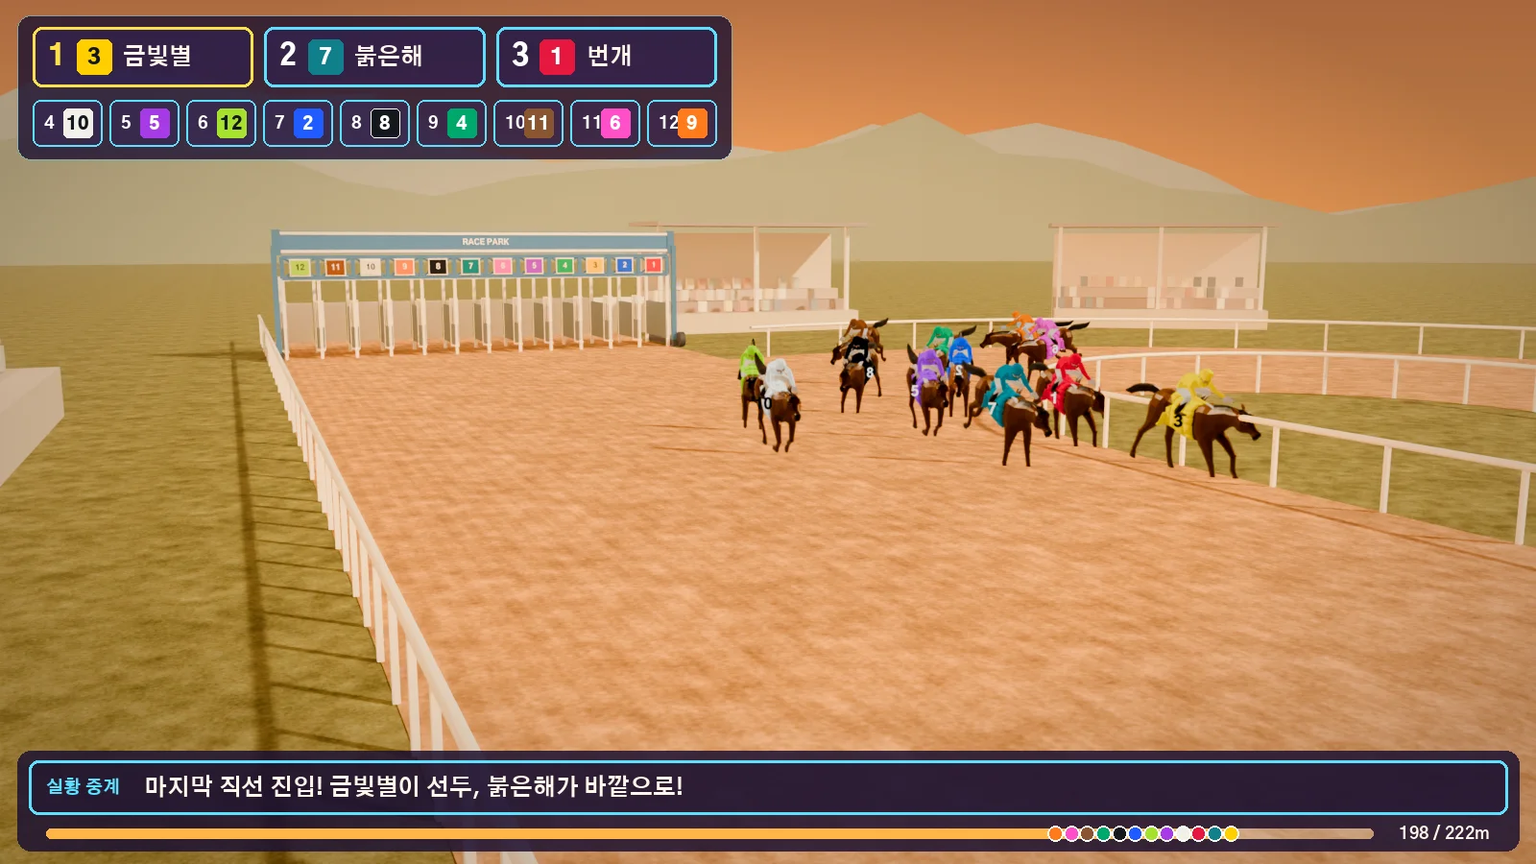
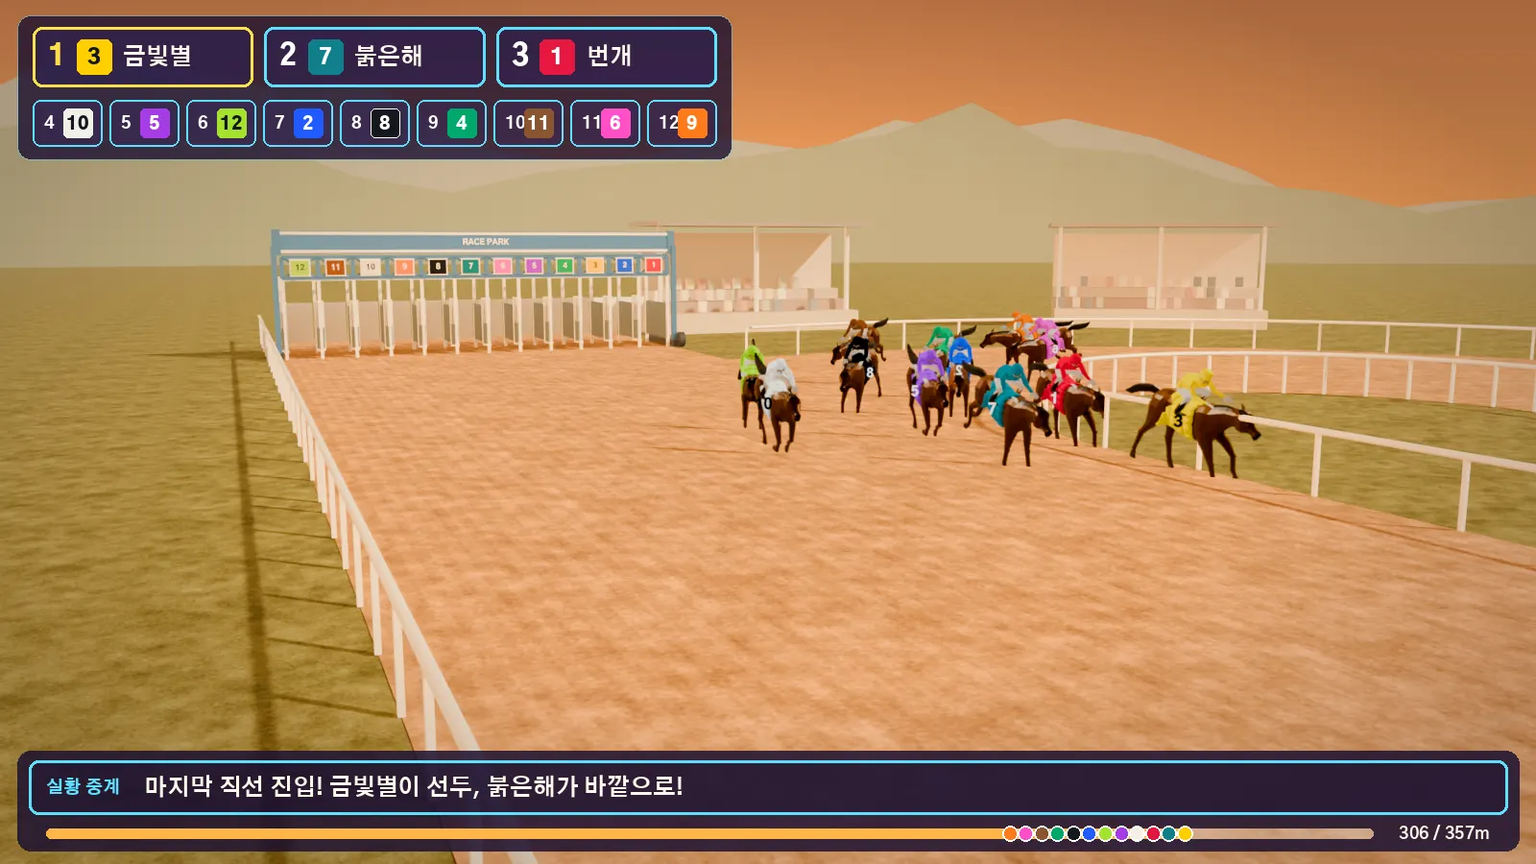
docs(stage2): 결승 시안 v3 확정 반영 (SPEC 9-B·§3-2, storyboard_finish 교체)

diff --git a/docs/stage2/SPEC.md b/docs/stage2/SPEC.md
@@ -2,7 +2,7 @@
 
 > **이 문서(`docs/stage2/SPEC.md`)가 2단계의 유일한 기준 문서(single source of truth)다.** 시게루의 07 마스터 스펙 등 다른 문서의 결정은 여기에 반영된 것만 유효하다.
 > 이 문서가 2단계의 최우선 기준이다. `docs/stage2/ref/`의 다른 문서와 충돌하면 이 문서를 따른다.
-> 정답 이미지: `docs/stage2/storyboard/01~10_*.webp` (명준 승인). 단 마지막 코너 이후~경기 종료 화면은 `docs/stage2/storyboard_finish/`(결승 시안 v2, 2026-11-04 최종 확정)가 대체한다(§3-2).
+> 정답 이미지: `docs/stage2/storyboard/01~10_*.webp` (명준 승인). 단 마지막 코너 이후~경기 종료 화면은 `docs/stage2/storyboard_finish/`(결승 시안 v3, 2026-11-04 명준 님 확정)가 대체한다(§3-2).
 
 ## 1. 목표
 - 기본 말 한 종류 + 기본 기수 한 종류. 레인 색 틴트(안장천·번호판·실크)로 12마리 구분.
@@ -26,39 +26,41 @@
 7. **카메라 장면별 값** — `STORYBOARD_v1_camera.md` 표의 거리·렌즈·고도대로. 달리는 장면(06)은 거리 16~17m, focal(900h) 약 1275(옛 1170h 환산 1658), 말 길이 화면 폭 20~26%. 코너·백 스트레치(07·08)는 말 12~14%로 무리 전체. 출발(04·05)은 위에서 내려다보며 12칸 전체. 마지막 코너 이후(옛 장면 09·10)는 이 작업에서 하지 않는다 — 결승 카메라는 §3-2(`storyboard_finish/`)대로 9-B에서 한다. 그때까지 결승 직선은 06과 같은 추적 카메라로 둔다.
 8. **경기장 주변·톤** — 메인 관중석, 작은 관중석·지붕 건물, 황금빛 들판, 노을 하늘(장면 01 기준). 지금의 녹색 띠는 제거.
 9. **순위판·결승·결과 연출 — 두 PR로 나눈다.**
-   - **9-A 화면 정보 배치 (작업 1 바로 다음에 한다, 완료)** — 위쪽 순위판(1~3위 큰 카드, 4~12위 작은 칩, 테두리 #5CE1FF, 1위 #FFE14A), 아래 실황 중계 자막과 진행 바, 결과 순위표(1~12위 레인색·이름·1위와 차이, 1위 행 강조)의 배치를 장면 09·10과 똑같이. 이 배치는 결승 시안 v2의 f01~f05와도 같다(변경 없음). 연출은 하지 않는다.
-   - **9-B 결승 연출 (맨 마지막)** — §3-2 전체: f01 고정 카메라 → 컷 1번 → 바깥 난간 추적(1.35m·45mm, 슬로우) → 결승선에서 정지, 사진 판정 프레임 약 1초 → 컷 없이 1위 뒤로 올라가며 돌기(45→36mm) → f05 결과 화면(순위표 오른쪽 1/3). 말 머리 위 순위 숫자는 쓰지 않는다(제외). 9-A의 배치는 건드리지 않는다.
+   - **9-A 화면 정보 배치 (작업 1 바로 다음에 한다, 완료)** — 위쪽 순위판(1~3위 큰 카드, 4~12위 작은 칩, 테두리 #5CE1FF, 1위 #FFE14A), 아래 실황 중계 자막과 진행 바, 결과 순위표(1~12위 레인색·이름·1위와 차이, 1위 행 강조)의 배치를 장면 09·10과 똑같이. 이 배치는 결승 시안 v3의 f01~f05와도 같다(변경 없음). 단 결과 순위표 제목과 진행 바 거리는 '357m'·'/357m'로 표기한다. 연출은 하지 않는다.
+   - **9-B 결승 연출 (맨 마지막)** — §3-2 전체(결승 시안 v3): f01 고정 카메라 → 컷 1번(직선→스퍼트, 결승선 30m 앞) → 바깥 난간 추적(1.35m·45mm) → 결승선 10m 앞부터 서서히 0.5배 슬로우 → 1위 코가 결승선에 닿으면 정지 약 1초(f04, PHOTO FINISH 표시·판정선은 연출만) → 컷 없이 상승해 1위 3/4 뒤쪽(45→40→36mm) → f05 결과 화면(순위표 오른쪽 1/3). 사진 판정·동착 판정 기능은 넣지 않는다. 말 머리 위 순위 숫자는 쓰지 않는다(제외). 1착 배너·다시 하기/나가기 버튼은 미정. 9-A의 배치는 건드리지 않는다.
    - 실제 순서: 1 → 9-A → 2 → 3+4 → 5 → 6 → 7 → 8 → 9-B.
 
-### 9번 세부 (2026-11-04 확정: 리무르 결승 시안 v2)
-마지막 코너를 빠져나온 뒤부터 결과 화면까지는 §3-2(= `storyboard_finish/SHOTS.md`)가 유일한 기준이다. 11/3에 정했던 '결승 30m 전 측면 고정', '5m 전 0.5배 1초', '통과 후 3초 감속하며 1위 쪽 푸시', '꼴찌 통과 1초 뒤 순위표 슬라이드, 2초 뒤 버튼' 순서는 폐기하고 §3-2로 대체한다.
+### 9번 세부 (2026-11-04 확정: 리무르 결승 시안 v3)
+마지막 코너를 빠져나온 뒤부터 결과 화면까지는 §3-2(= `storyboard_finish/SHOTS.md`, v3)가 유일한 기준이다. 11/3 순서('결승 30m 전 측면 고정', '5m 전 0.5배 1초', '통과 후 3초 감속하며 1위 쪽 푸시', '꼴찌 통과 1초 뒤 순위표 슬라이드, 2초 뒤 버튼')와 결승 시안 v2(222m 기준 시간표)는 폐기하고 §3-2로 대체한다.
 
-### 3-2. 마지막 코너 이후 → 결승 → 경기 종료 화면 (리무르 결승 시안 v2, 2026-11-04 명준 최종 확정)
-- 기준: `docs/stage2/storyboard_finish/` — `SHOTS.md`(카메라 경로·시간·렌즈), 키프레임 `f01_stretch_entry`, `f02_sprint`, `f02b_sprint_mid`, `f04_photo_finish`, `f04to05_rise_swing`, `f05_result`(.webp), 모아보기 `contact.webp`. 이 구간에서 `storyboard/09_home_sprint.webp`, `10_finish_results.webp`의 카메라·구도는 쓰지 않는다(HUD 배치는 같음, 아래).
-- 원칙: 카메라가 짧은 시간에 자주 바뀌면 어지럽다(명준). **컷은 f01→f02 한 번뿐.** 경기 종료 후 다른 페이지로 넘어가지 않고, 말이 보이는 경기장 화면 위에서 결과를 보여 준다.
+### 3-2. 마지막 코너 이후 → 결승 → 경기 종료 화면 (리무르 결승 시안 v3, 2026-11-04 명준 님 확정)
+- 기준: `docs/stage2/storyboard_finish/` — `SHOTS.md`(v3: 카메라 경로·시간·렌즈), 키프레임 `f01_stretch_entry`, `f02_sprint`, `f02b_sprint_mid`, `f04_photo_finish`, `f04to05_rise_swing`, `f05_result`(.webp), 모아보기 `contact.webp`. 이 구간에서 `storyboard/09_home_sprint.webp`, `10_finish_results.webp`의 카메라·구도는 쓰지 않는다(HUD 배치는 같음, 아래).
+- 원칙: 카메라가 짧은 시간에 자주 바뀌면 어지럽다(명준). **컷은 f01→f02(직선→스퍼트) 한 번뿐.** 경기 종료 후 다른 페이지로 넘어가지 않고, 말이 보이는 경기장 화면 위에서 결과를 보여 준다.
+- 코스(§8): 직선 80.28m, L=357m. 마지막 코너 출구(303.5m, 스퍼트 +12% 시작)~결승선(357m) = 53.5m. 스퍼트 속도 약 6.70m/s.
 
-| 순서 | 키 | 시안 t(초) | 선두~결승선 | 카메라 | 렌즈 |
-|---|---|---|---|---|---|
-| 1 | f01 직선 진입 | 0.0 | 23.8m | 바깥·앞쪽 고정 카메라(높이 4.2m, 고도 8.8°), 무리가 결승 직선으로 들어오는 것을 정면 쪽에서 | 34mm |
-| 2 | **컷** f01→f02 | ~1.2 | 13.4m | (유일한 컷) | |
-| 3 | f02 → f02b → f04 | ~1.2 → ~1.9 → ~2.6 | 13.4 → 5.9 → 1.1m | 하나의 추적 리그: 바깥 난간 라인(트랙 가로 위치 고정), 높이 1.35m, 트랙을 정면으로 가로질러 보며(고도 1.2°) 달리는 방향으로만 선두 속도에 맞춰 이동. 결승선에 가까워지면 천천히 감속(ease-out)해 결승선 위치에서 멈춘다 | 45mm |
-| 4 | f04 사진 판정 프레임 | ~2.6, **약 1.0초 정지** | 선두 코가 결승선에 닿는 순간 | 결승선에 멈춘 카메라, 화면 정지(freeze). 결승선 세로선과 우상단 `PHOTO FINISH · 1/1000s` 표시 | 45mm |
-| 5 | f04 → f04to05 → f05 | ~2.6 → ~4.1 → ~5.0 | 통과 후 | **컷 없음.** 1위 말 기준 상대 이동: f04 자세(옆, 1.35m)에서 f05 자세(1위 뒤 3.2m, 안쪽 0.6m, 위 3.3m)로 smoothstep, 위로 1.2·sin(πt)m 더 올라 무리 위로 호를 그리며 1위 뒤로 돈다 | 45→40→36mm |
-| 6 | f05 결과 | ~5.0~ | | 1위 말 뒷모습(화면 폭 약 21%) + 오른쪽 1/3에 결과 순위표 | 36mm |
+| 순서 | 키 | 게임 t(초, 코너 출구=0) | 선두~결승선 | 카메라 | 재생 속도 | 렌즈 |
+|---|---|---|---|---|---|---|
+| 1 | f01 직선 진입 | 0.00~3.51 | 53.5 → 30m | 바깥·앞쪽 고정 카메라(높이 4.2m, 고도 8.8°) | 1.0x | 34mm |
+| 2 | **컷** → 추적 시작 | 3.51 | 30m | (유일한 컷) 추적 리그로 전환 | 1.0x | 45mm |
+| 3 | f02 → f02b | 3.51 → 6.49 | 30 → 10m | 하나의 추적 리그: 바깥 난간 라인(가로 위치 고정), 높이 1.35m, 고도 1.2°, 선두 속도에 맞춰 달리는 방향으로만 이동 | 1.0x | 45mm |
+| 4 | 슬로우 | 6.49 → 7.13 → 9.21 | 10 → 7 → 0m | 같은 리그. 10m 앞부터 3m에 걸쳐 smoothstep으로 서서히 0.5배, 이후 0.5배 유지 | 1.0x → 0.5x | 45mm |
+| 5 | f04 사진 판정 화면 | 9.21~10.21 (**정지 약 1초**) | 0m(1위 코가 선에 닿는 순간) | 카메라·말 모두 정지(freeze). 결승선 세로선과 `PHOTO FINISH` 표시 | 정지 | 45mm |
+| 6 | f04 → f04to05 → f05 | 10.21 → 11.11 → 12.01 | 통과 후 −3.5 → −6m | **컷 없음.** 0.6초에 걸쳐 0.5x→1.0x 재개, 카메라가 상승하며 1위 바깥 뒤 3/4로 돈다(180° 선을 넘지 않음) | 1.0x, 감속 | 45→40→36mm |
+| 7 | f05 결과 | 12.01~ | | 1위 3/4 뒷모습(`wide_a4`=+45°, flip 없음 → 등번호 정상) + 오른쪽 1/3 결과 순위표 | | 36mm |
 
-- 시간 값은 시안 기준 제안값이며 실제 속도보다 느리게 잡은 것이다(슬로우 포함).
+- 추적 구간 화면 시간 약 6.7초(30m 앞~결승선 5.71초 = 실제 속도 2.99초 + 슬로우 2.72초, + 정지 1.0초).
 - 화면 정보(키프레임 기준):
-  - 위쪽 순위판·아래 실황 자막·진행 바는 f01~f05 내내 9-A 배치 그대로 보인다. 자막 예: f01 '마지막 직선 진입! …', f04 '사진 판정할 것 같습니다!', f05 '금빛별 1착! 붉은해 2착, 번개 3착!'.
-  - f05 결과 순위표: 오른쪽 1/3, 제목 '경주 결과 · {거리}', 1~12위 레인색 번호·이름·1위는 기록(초), 나머지는 1위와 차이, 1~3위 행 테두리 강조(1위 노랑). 배치는 장면 10과 같다.
-  - 시안에 없는 것: 1착 플래시·'1착' 배너, 다시 하기/나가기 버튼(**미정**). 넣는다면 위 카메라 흐름과 f05 구도를 가리지 않게 하고, 정한 내용은 PR에 적는다(9-B). 말 머리 위 순위 숫자는 넣지 않는다(**제외**, 11/4 명준 님 결정). 순위표가 나타나는 방식(슬라이드/페이드)과 시점은 f04to05→f05 이동 중 또는 끝, PR에 적는다.
-  - 사진 '판독'(돌발 상황·재판정)은 2단계 제외. f04의 정지 프레임은 연출이며 순위는 실제 통과 순서 그대로.
+  - 위쪽 순위판·아래 실황 자막·진행 바는 f01~f05 내내 9-A 배치 그대로. 진행 바 거리 표기는 '/357m'(357 − 선두~결승선 거리). 자막 예: f01 '마지막 직선 진입! …', f04 '사진 판정할 것 같습니다!', f05 '금빛별 1착! 붉은해 2착, 번개 3착!'.
+  - f05 결과 순위표: 오른쪽 1/3, 제목 '경주 결과 · 357m', 1~12위 레인색 번호·이름·1위는 기록(초), 나머지는 1위와 차이, 1~3위 행 테두리 강조(1위 노랑). 배치는 장면 10·9-A와 같다.
+  - **PHOTO FINISH 표시와 판정선은 연출로만 남긴다.** 사진 판독·동착(dead heat) 판정 기능은 넣지 않는다. 순위는 실제 통과 순서 그대로.
+  - 말 머리 위 순위 숫자는 넣지 않는다(**제외**, 11/4 명준 님 결정).
+  - 시안에 없는 것: 1착 플래시·'1착' 배너, 다시 하기/나가기 버튼(**미정**). 넣는다면 위 카메라 흐름과 f05 구도를 가리지 않게 하고 PR에 적는다. 순위표가 나타나는 방식(슬라이드/페이드)과 시점은 f04to05→f05 이동 중 또는 끝, PR에 적는다.
 - 구현 메모:
-  - 시안은 222m 트랙(결승 직선 약 24m) 기준이다. 새 L=357m(결승 직선 53.5m, §8)에는 구간 길이를 비율로 맞춘다. f01은 마지막 코너를 빠져나온 직후(스퍼트 시작 303.5m 부근), 컷은 결승선 앞 비율 지점.
-  - f02~결승선 추적 구간은 실제 속도로 약 1.4초라 슬로우가 필요하다.
-  - 키프레임마다 말 간격이 다르다(f02·f02b 2.7m, f04 1.5m, 통과 후 2.6m). 연결할 때 부드럽게 보간한다.
-  - f04에서 바깥 레인 말이 왼쪽 앞에 크게 보이는 것, f04to05에서 카메라가 뒤쪽 말(7번) 위를 지나가는 것은 시안대로 정상.
-  - f05 뒷모습은 옆 스프라이트를 뒤집은 것이라 등번호 '3'이 거꾸로 보인다. 번호 오버레이나 뒷모습 스프라이트가 필요하다(**미정**, 9-B 전 결정).
-- 검수: 리무르가 f01~f05 키프레임과 나란히 대조. 순위표 배치는 9-A, 카메라·정지·이동 연출은 9-B에서 한다.
+  - 키프레임마다 말 간격이 다르다(추적 중 2.7m, 결승선 1.5m, 통과 후 2.6m). 연결할 때 부드럽게 보간한다.
+  - f04to05 상승 때 뒤처진 말이 왼쪽 아래 앞쪽에 크게 걸린다. 구도를 가리지 않게 주의(카메라 경로·높이 미세 조정 가능, PR에 적기).
+  - 키프레임 렌더는 27m 슈트 장면이라 f01 먼 배경의 게이트 위치는 옛 값이다. 결승 직선 프레임에는 영향 없음.
+  - 30m 추적 시작 지점 키프레임은 없다(f02는 16.7m 지점 렌더). 같은 리그 값으로 이어 간다.
+- 검수: 리무르가 v3 f01~f05 키프레임과 나란히 대조. 순위표 배치는 9-A, 카메라·정지·이동 연출은 9-B에서 한다.
 
 ### 3-3. 코너 모션 검수 (07 마스터 스펙 §8-1 반영, 작업 5 완료 기준에 포함)
 - 상태: 역주행 수정은 완료 보고됨(명준·코마). **HEADING_RULE.md의 규칙과 §7 테스트 케이스와 검증 기준(10장면 120마리 시트·flip 120/120 일치)으로 다시 확인**하고, `pose.flipX` 불일치 경고가 0건인지 본다.
@@ -146,6 +148,7 @@
 | 2026-11-04 | 리무르 결승 시안 v2가 마지막 코너~결승점~경기 종료 화면의 최종 확정 시안. 기존 내용(11/3 결승 통과 연출 순서, 장면 09·10 카메라·구도)은 이것으로 대체 | 이 문서 §3 작업 7·9, §3-2 |
 | 2026-11-04 | 명준 님 출발 슈트 55m 확정: L=357.0m, 경주 약 60초, 인코스 진입 0~55m, 스퍼트 303.5m부터, `STRAIGHT_M` 상수 80.3m, 속도 배율 1.99 유지 | 이 문서 §8 |
 | 2026-11-04 | 명준 님 결정: 결승 연출 머리 위 순위 숫자 표기 제외(리무르 v3에서도 삭제) | 이 문서 §3 작업 9-B, §3-2 |
+| 2026-11-04 | 명준 님 결승 시안 v3 확정(v2 대체): 컷 1번(직선→스퍼트), 결승선 30m 앞부터 바깥 1.35m·45mm 추적, 10m 앞부터 서서히 0.5배, 1위 통과 시 정지 1초(f04), 컷 없이 상승해 1위 3/4 뒤쪽 f05 결과 화면. HUD '/357m'. PHOTO FINISH 표시·판정선은 연출만, 사진·동착 판정 기능 없음. 1착 배너·버튼 미정 | 이 문서 §3 작업 9-B, §3-2, storyboard_finish/SHOTS.md |
 
 (반영 위치의 §번호는 07 마스터 스펙 기준. §10-A → 이 문서 §3-2, §8-1 → §3-3.)
 

diff --git a/docs/stage2/storyboard_finish/SHOTS.md b/docs/stage2/storyboard_finish/SHOTS.md
@@ -1,29 +1,46 @@
-# storyboard_finish_v2: home stretch to finish with one cut
+# storyboard_finish_v3: home stretch to finish (SPEC §8, 11/4)
 
-Scene: storyboard_v2 Blender scene (`src/sbf2.py`), overlay from `src/compf2.py`. Every horse uses the v2 heading rule. Lane 3 (금빛별) wins.
+Changes from v2:
+- **11/4 revision:** the overhead rank badges are removed; tracking now starts 30 m out (SPEC §3-2); the HUD total reads /357m (start chute is now 55 m, home straight unchanged), and the results board header reads 357m. Keyframe renders and in-world distances are unchanged (they were rendered on the 329 m layout with a 27 m chute; the home straight and finish are the same). Old files are in `_prev/`.
+- **Track:** the Blender scene is rebuilt with straight S = 80.28 m (`src/sbbase_v3.py`). Total L = 329.0 m, home stretch from the exit of the final turn to the finish = 53.5 m, finish at 2/3 of the home straight. Chute 27 m and corner radius 14 m are unchanged. Every keyframe distance is measured on this track (finish_d = 329.04 m).
+- **Slow motion:** real speed until 10 m before the finish, then a smoothstep ease to 0.5x over 3 m, and 0.5x until the leader's nose reaches the line. There the camera eases to a freeze (the photo-finish frame).
+- **f05:** a rear 3/4 view (sheet `wide_a4` = +45°, flip = False), so the saddle-cloth number is not mirrored. (The overhead rank-number badges were removed on 11/4.)
+- **Cuts:** one cut only, f01 → f02. From f02 on it is one continuous camera: the tracking rig (outer side, y = 22.7 m, z = 1.35 m, 45mm) through the freeze at the line, then a rise and swing to the outer rear 3/4 (no crossing of the 180° line).
 
-## Camera path
-1. **f01 (stretch entry):** fixed camera outside and ahead, 34mm.
-2. **The only cut: f01 → f02.**
-3. **f02 → f02b → f04: one tracking rig.** It runs along the outer rail at a fixed y=22.7 m and height 1.35 m with a 45mm lens, looks straight across the track (target y=8.6, z=1.05), and moves in the running direction (−x) at the leaders' pace. Approaching the line it eases out and stops at x = finish (GOALX); f04 is the freeze as the leader's nose touches the line.
-4. **f04 → f04to05 → f05: no cut.** The camera moves relative to the winner. Position and target follow a smoothstep from the f04 pose (beside, 1.35 m) to the f05 pose (3.2 m behind, 0.6 m inside, 3.3 m up) with an extra rise of 1.2·sin(πt) m so it arcs over rather than passing through the field. The lens goes 45 → 40 → 36mm over the same move.
+Speeds: race 329 m in about 55 s (SPEC §8-1), spurt +12%, so about 6.70 m/s on the home stretch.
 
-Times are suggested seconds from the start of the sequence.
+## Timing (in-game values; t = 0 at the exit of the final turn)
+These are in-game timing values at the SPEC race pace: 329 m in about 55 s (§8-1), so the base speed is 5.98 m/s, and the spurt is +12% from the turn exit (= 6.70 m/s).
 
-| key | t (s) | leader to finish | camera loc (m) | target | lens | elevation | horse length on screen (max / median) | heading OK |
-|---|---|---|---|---|---|---|---|---|
-| f01_stretch_entry | 0.0 | 23.8 m | (0.07, 23.05, 4.2) | (20.07, 14.25, 0.8) | 34mm | 8.8° | 9.6% / 4.7% | True |
-| f02_sprint | ~1.2 (CUT) | 13.4 m | (7.72, 22.7, 1.35) | (7.72, 8.6, 1.05) | 45mm | 1.2° | 33.6% / 24.7% | True |
-| f02b_sprint_mid | ~1.9 | 5.9 m | (0.23, 22.7, 1.35) | (0.23, 8.6, 1.05) | 45mm | 1.2° | 33.6% / 24.7% | True |
-| f04_photo_finish | ~2.6 (slows to a freeze, hold ~1.0) | 1.1 m | (-6.69, 22.7, 1.35) | (-6.69, 8.6, 1.05) | 45mm | 1.2° | 33.5% / 24.7% | True |
-| f04to05_rise_swing | ~4.1 | -3.5 m | (-8.59, 15.35, 3.53) | (-10.94, 8.6, 0.97) | 40mm | 19.6° | 39.6% / 39.6% | False |
-| f05_result | ~5.0 | -6.0 m | (-9.49, 8.0, 3.3) | (-14.19, 8.6, 0.9) | 36mm | 26.9° | 21.4% / 21.4% | False |
+| t (s) | key | leader to finish (m) | playback | note |
+|---|---|---|---|---|
+| 0.00 | f01 | 53.5 | 1.0x | static, outside and ahead (turn exit) |
+| 3.51 | CUT → tracking start | 30.0 | 1.0x | tracking rig takes over (SPEC §3-2 step 1) |
+| 5.49 | f02 (keyframe) | 16.7 | 1.0x | same rig (frame rendered at 16.7 m) |
+| 6.49 | f02b | 10.0 | 1.0x → ease | 0.5x slow-mo starts |
+| 7.13 | (ease end) | 7.0 | 0.5x |  |
+| 9.21 | f04 | 0.0 | → freeze | camera and action freeze as the leader's nose crosses |
+| 10.21 | (resume) | 0.0 | 0.5x → 1.0x over 0.6 s | camera starts rising |
+| 11.11 | f04to05 | -3.5 | 1.0x, decelerating | rise and swing |
+| 12.01 | f05 | -6.0 | decelerating | rear 3/4, results board |
+
+f01 holds for 3.51 s. Tracking runs from 30 m out to the freeze in 5.71 s (2.99 s at real speed, then 2.72 s through the slow-mo), plus a 1.0 s freeze hold.
+
+## Keyframes
+| key | camera loc (m) | target | lens | elevation | horse length on screen (max / median) | sheet of the leader |
+|---|---|---|---|---|---|---|
+| f01 | (20.14, 23.05, 4.2) | (40.14, 14.25, 0.8) | 34mm | 8.8° | 9.6% / 4.7% | wide_a3 flip=False |
+| f02 | (4.35, 22.7, 1.35) | (4.35, 8.6, 1.05) | 45mm | 1.2° | 33.6% / 24.7% | corner_a0 flip=False |
+| f02b | (-2.35, 22.7, 1.35) | (-2.35, 8.6, 1.05) | 45mm | 1.2° | 33.6% / 24.7% | corner_a0 flip=False |
+| f04 | (-13.38, 22.7, 1.35) | (-13.38, 8.6, 1.05) | 45mm | 1.2° | 33.5% / 24.7% | corner_a0 flip=False |
+| f04to05 | (-14.78, 17.65, 3.58) | (-17.63, 8.6, 0.97) | 40mm | 15.3° | 57.7% / 57.7% | straight_a3 flip=False |
+| f05 | (-15.18, 12.6, 3.4) | (-20.88, 8.6, 0.9) | 36mm | 19.7° | 32.3% / 32.3% | wide_a4 flip=False |
 
 ## Gaps
-- The track is 222 m and the home straight is only about 24 m, so the tracking run from f02 to the finish is about 13 m (about 1.4 s at race speed). The times above are slowed down for readability.
-- The keyframes use different field spreads: 2.7 m at f02 and f02b, 1.5 m at the photo finish, 2.6 m after the finish. In a real animation the gaps would close and open smoothly between keys.
-- f04: a horse in an outer lane (near the camera) is large in the left foreground. f04 uses the same rig as f02, so this is expected.
-- f04to05: the camera passes over a trailing horse (lane 7, partly visible bottom-left).
-- f05: the back-view sprite is mirrored by the flip, so the saddle-cloth number "3" reads backwards. The sprite sheets need a non-mirrored rear view or a number overlay.
-- f05: the winner is 21% of screen width, up from 10.9% in v1. The results board covers the right third of the frame.
-- "heading OK = False" on f04to05 and f05 comes only from horses behind the camera (negative depth, off screen): lanes 12 and 11 in f04to05, lane 1 in f05. Every visible horse passes the heading rule.
+- **HUD progress:** it is computed as 357 − (leader distance to finish). The 3D scene still has the 27 m chute, so f01 and the gate in the distance reflect the old chute. This doesn't affect the home-straight frames.
+- **f02 keyframe:** it is still the frame rendered at 16.7 m out. It now sits mid-tracking, and there is no keyframe at the 30 m tracking start.
+- **Timing conflict:** the brief says the 53.5 m stretch is "about 3 s", but SPEC §8-1 gives about 9 s (55 s race). The timing table follows the SPEC speed: 53.5 m takes about 8 s at real speed.
+- **Photo finish:** SPEC §3-2 says photo-finish judging is excluded from stage 2 ("사진 판독은 돌발상황이라 2단계에서 제외"). The freeze frame keeps the thin finish line only as a slow-mo stylisation, not as a judging event. 시게루 should confirm.
+- **Field spacing:** the keyframes use different gaps (2.7 m during tracking, 1.5 m at the line, 2.6 m after), so an animation must blend them.
+- **f04to05:** a trailing horse is large in the bottom-left foreground as the camera rises past it.
+- **f01:** the gate in the chute is visible in the distance behind the field (the scene keeps it).

diff --git a/docs/stage2/storyboard/STORYBOARD_v1_camera.md b/docs/stage2/storyboard/STORYBOARD_v1_camera.md
@@ -1,6 +1,6 @@
 # Storyboard v1: 스테이지 3 전 경주 한 판 (16:9, 1600x900 + 캡션 줄)
 
-> **2026-11-04:** 장면 09·10의 카메라·구도는 결승 시안 v2(`docs/stage2/storyboard_finish/`, SPEC §3-2)로 대체됨(파일은 참고용으로 유지). HUD·결과 순위표 배치는 그대로 유효.
+> **2026-11-04:** 장면 09·10의 카메라·구도는 결승 시안 v3(`docs/stage2/storyboard_finish/`, SPEC §3-2)로 대체됨(파일은 참고용으로 유지). HUD·결과 순위표 배치는 그대로 유효.
 
 - 렌더: Blender 4.2 Cycles. 트랙, 게이트, 관중석은 stage_gate_v1 씬을 doc 06 기하로 고친 것(222m, 슈트 27m가 홈 직선과 일직선, 반시계 1바퀴, 결승은 홈 직선 2/3, 레인 12개 × 1.2m)
 - 말과 기수: `final/public/horses`, `final/public/jockey/ride_*` 실제 시트에 레인 색 틴트(안장천, 번호판, 실크). 지면: `final/public/track/v2/ground_*.webp`

diff --git a/docs/stage2/storyboard/STORYBOARD.md b/docs/stage2/storyboard/STORYBOARD.md
@@ -1,6 +1,6 @@
 # Storyboard v2: 말 몸 방향 수정판
 
-> **2026-11-04:** 장면 09·10의 카메라·구도는 결승 시안 v2(`docs/stage2/storyboard_finish/`, SPEC §3-2)로 대체됨(파일은 참고용으로 유지). HUD·결과 순위표 배치는 그대로 유효.
+> **2026-11-04:** 장면 09·10의 카메라·구도는 결승 시안 v3(`docs/stage2/storyboard_finish/`, SPEC §3-2)로 대체됨(파일은 참고용으로 유지). HUD·결과 순위표 배치는 그대로 유효.
 
 - 카메라, 프레이밍, UI는 v1과 같음(잠금). 바뀐 것은 말 시트 선택과 flip뿐이며, 규칙은 `HEADING_RULE.md`
 - 신규 시트: 시트 yaw -90/-75/-60/-45/+45/+60/+75(말과 기수, 레인 틴트 마스크 포함), `sheets/`
